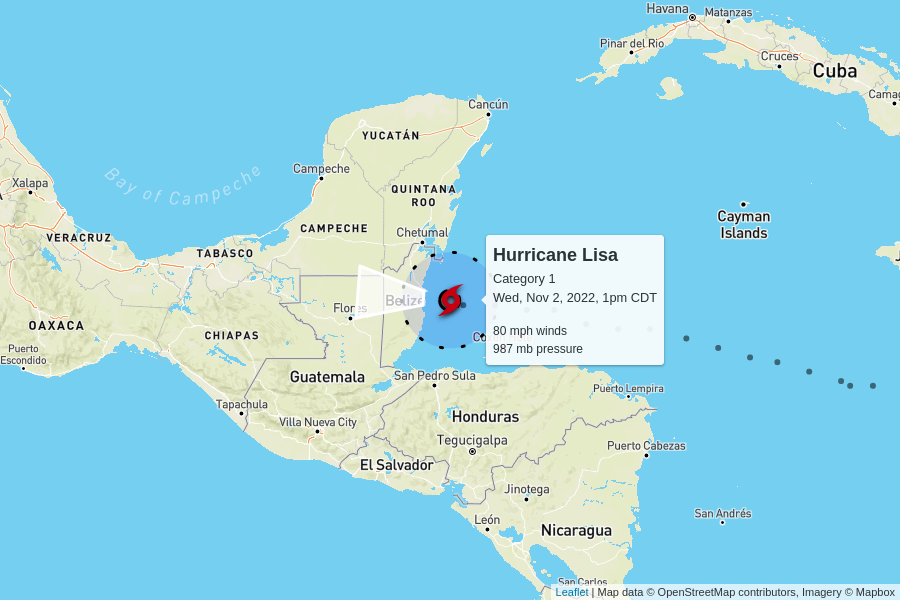
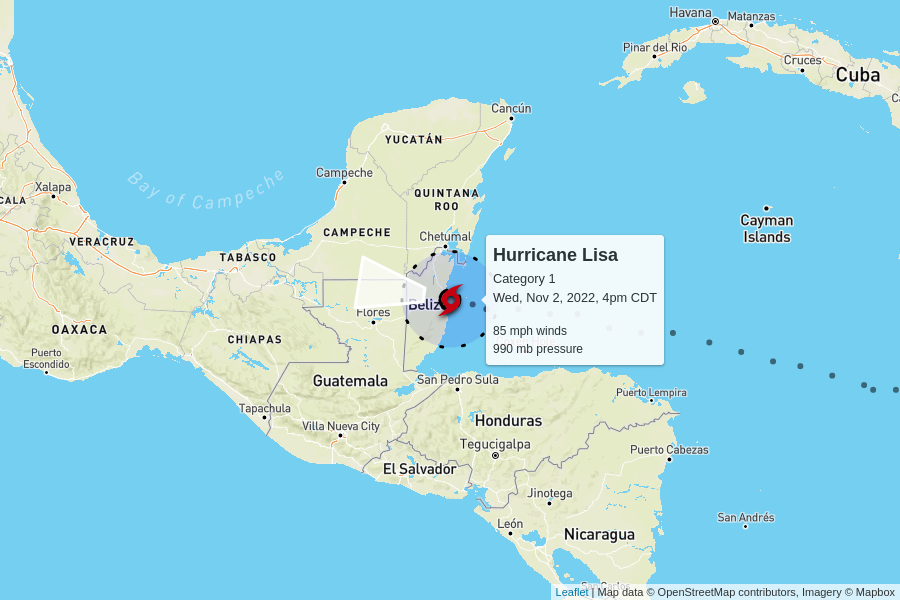
automatic update

diff --git a/docs/index.html b/docs/index.html
@@ -100,7 +100,7 @@
         <td colspan="6" class="storm category-1" >
           <h2>
             Hurricane Lisa - Category 1
-            <p class="updated">last updated <span data-time>2022-11-02T18:00:00.000Z</span></p>
+            <p class="updated">last updated <span data-time>2022-11-02T21:00:00.000Z</span></p>
           </h2>
         </td>
       </tr>
@@ -115,12 +115,12 @@
       </tr>
       <tr>
         <td class="spacer"></td>
-        <td>80 mph</td>
-        <td>987 mb</td>
+        <td>85 mph</td>
+        <td>990 mb</td>
         <td>
-          14 mph to the west
+          12 mph to the west
           <br/>
-          <span style="display: inline-block; font-size: 1.5em; transform: rotate(275deg);">↑</span>
+          <span style="display: inline-block; font-size: 1.5em; transform: rotate(280deg);">↑</span>
         </td>
         <td><a href="https://raw.githubusercontent.com/mgwalker/atlantic-hurricanes/main/data/csv/AL152022.csv">AL152022.csv</a></td>
         <td><a href="https://www.nhc.noaa.gov/archive/2022/LISA.shtml?">NHC advisories</a></td>
@@ -144,7 +144,7 @@
         <td colspan="6" class="storm category-1" >
           <h2>
             Hurricane Martin - Category 1
-            <p class="updated">last updated <span data-time>2022-11-02T15:00:00.000Z</span></p>
+            <p class="updated">last updated <span data-time>2022-11-02T21:00:00.000Z</span></p>
           </h2>
         </td>
       </tr>
@@ -159,12 +159,12 @@
       </tr>
       <tr>
         <td class="spacer"></td>
-        <td>75 mph</td>
-        <td>983 mb</td>
+        <td>85 mph</td>
+        <td>974 mb</td>
         <td>
-          26 mph to the east-northeast
+          31 mph to the northeast
           <br/>
-          <span style="display: inline-block; font-size: 1.5em; transform: rotate(60deg);">↑</span>
+          <span style="display: inline-block; font-size: 1.5em; transform: rotate(45deg);">↑</span>
         </td>
         <td><a href="https://raw.githubusercontent.com/mgwalker/atlantic-hurricanes/main/data/csv/AL162022.csv">AL162022.csv</a></td>
         <td><a href="https://www.nhc.noaa.gov/archive/2022/MARTIN.shtml?">NHC advisories</a></td>
